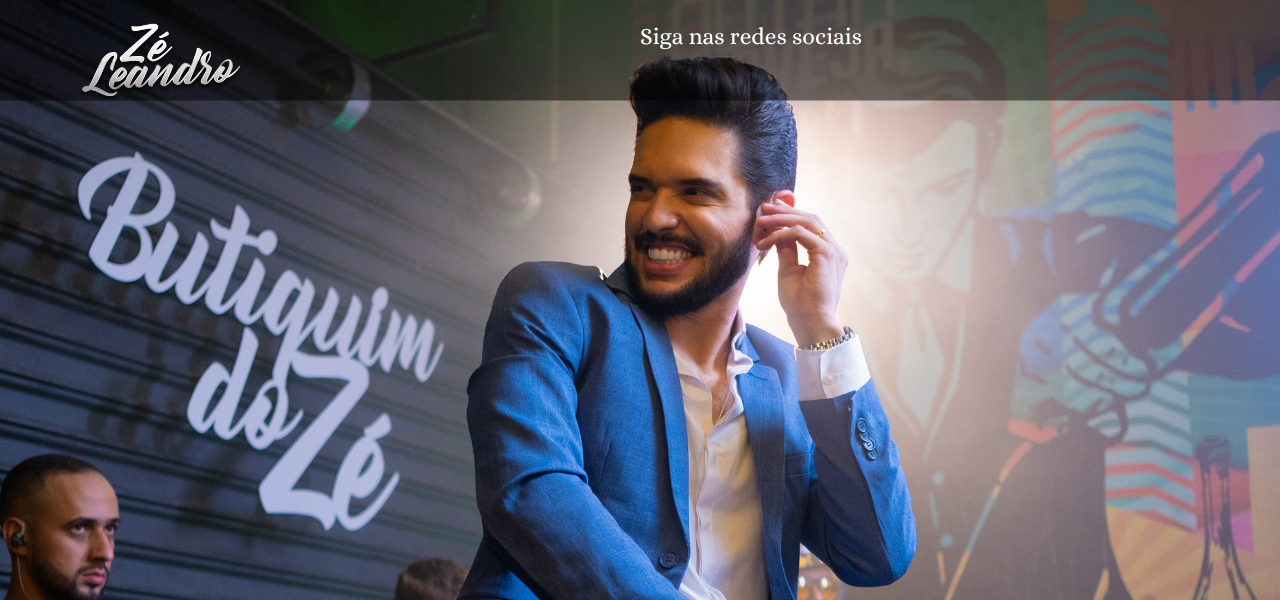
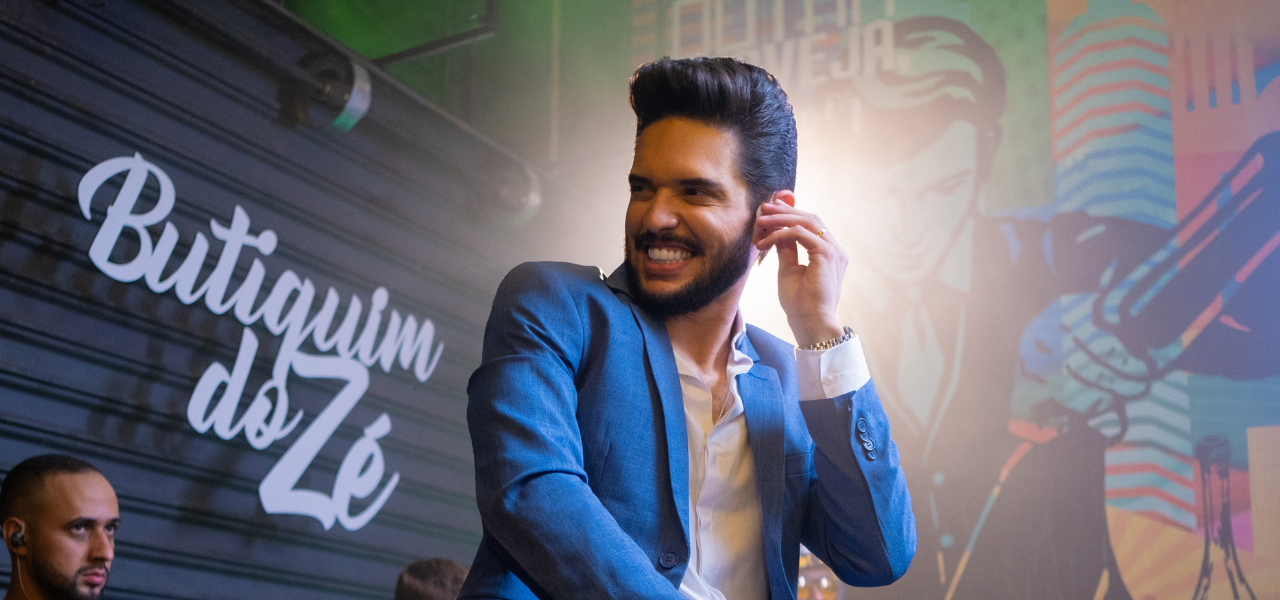
teste

Changed region(s): [[0.0, 0.0, 1.0, 0.18]]

diff --git a/index.html b/index.html
@@ -5,6 +5,7 @@
     <meta name="viewport" content="width=, initial-scale=1.0">
     <title>Zé Leandro</title>
     <link rel=stylesheet href="styles/styles.css">
+    <link rel="icon" href="./styles/img/logo png.png" type="image/x-icon">
     <link href="https://cdn.jsdelivr.net/npm/bootstrap@5.3.2/dist/css/bootstrap.min.css" rel="stylesheet" integrity="sha384-T3c6CoIi6uLrA9TneNEoa7RxnatzjcDSCmG1MXxSR1GAsXEV/Dwwykc2MPK8M2HN" crossorigin="anonymous">
     
 </head>
@@ -38,6 +39,71 @@
       </div>
     </div>
   </nav>
+
+
+
+
+
+
+
+
+
+
+  <footer class="py-3">
+    <img class="footer-img rounded mx-auto d-block" src="styles/img/logo footer png.png" width="auto" height="125">
+    <ul class="nav justify-content-center border-bottom pb-3 mb-3">
+      <li class="nav-item">
+        <a href="https://twitter.com/wesleysafadao" target="_blank" class="nav-link px-2 text-body-secondary">
+          <svg xmlns="http://www.w3.org/2000/svg" width="25" height="25" fill="currentColor" class="bi bi-twitter" viewBox="0 0 16 16">
+          <path d="M5.026 15c6.038 0 9.341-5.003 9.341-9.334 0-.14 0-.282-.006-.422A6.685 6.685 0 0 0 16 3.542a6.658 6.658 0 0 1-1.889.518 3.301 3.301 0 0 0 1.447-1.817 6.533 6.533 0 0 1-2.087.793A3.286 3.286 0 0 0 7.875 6.03a9.325 9.325 0 0 1-6.767-3.429 3.289 3.289 0 0 0 1.018 4.382A3.323 3.323 0 0 1 .64 6.575v.045a3.288 3.288 0 0 0 2.632 3.218 3.203 3.203 0 0 1-.865.115 3.23 3.23 0 0 1-.614-.057 3.283 3.283 0 0 0 3.067 2.277A6.588 6.588 0 0 1 .78 13.58a6.32 6.32 0 0 1-.78-.045A9.344 9.344 0 0 0 5.026 15"/>
+          </svg>
+        </a>
+      </li>
+      <li class="nav-item">
+        <a href="https://www.instagram.com/zeleandro_oficial/" target="_blank" class="nav-link px-2 text-body-secondary">
+          <svg xmlns="http://www.w3.org/2000/svg" width="25" height="25" fill="currentColor" class="bi bi-instagram" viewBox="0 0 16 16">
+            <path d="M8 0C5.829 0 5.556.01 4.703.048 3.85.088 3.269.222 2.76.42a3.917 3.917 0 0 0-1.417.923A3.927 3.927 0 0 0 .42 2.76C.222 3.268.087 3.85.048 4.7.01 5.555 0 5.827 0 8.001c0 2.172.01 2.444.048 3.297.04.852.174 1.433.372 1.942.205.526.478.972.923 1.417.444.445.89.719 1.416.923.51.198 1.09.333 1.942.372C5.555 15.99 5.827 16 8 16s2.444-.01 3.298-.048c.851-.04 1.434-.174 1.943-.372a3.916 3.916 0 0 0 1.416-.923c.445-.445.718-.891.923-1.417.197-.509.332-1.09.372-1.942C15.99 10.445 16 10.173 16 8s-.01-2.445-.048-3.299c-.04-.851-.175-1.433-.372-1.941a3.926 3.926 0 0 0-.923-1.417A3.911 3.911 0 0 0 13.24.42c-.51-.198-1.092-.333-1.943-.372C10.443.01 10.172 0 7.998 0h.003zm-.717 1.442h.718c2.136 0 2.389.007 3.232.046.78.035 1.204.166 1.486.275.373.145.64.319.92.599.28.28.453.546.598.92.11.281.24.705.275 1.485.039.843.047 1.096.047 3.231s-.008 2.389-.047 3.232c-.035.78-.166 1.203-.275 1.485a2.47 2.47 0 0 1-.599.919c-.28.28-.546.453-.92.598-.28.11-.704.24-1.485.276-.843.038-1.096.047-3.232.047s-2.39-.009-3.233-.047c-.78-.036-1.203-.166-1.485-.276a2.478 2.478 0 0 1-.92-.598 2.48 2.48 0 0 1-.6-.92c-.109-.281-.24-.705-.275-1.485-.038-.843-.046-1.096-.046-3.233 0-2.136.008-2.388.046-3.231.036-.78.166-1.204.276-1.486.145-.373.319-.64.599-.92.28-.28.546-.453.92-.598.282-.11.705-.24 1.485-.276.738-.034 1.024-.044 2.515-.045v.002zm4.988 1.328a.96.96 0 1 0 0 1.92.96.96 0 0 0 0-1.92zm-4.27 1.122a4.109 4.109 0 1 0 0 8.217 4.109 4.109 0 0 0 0-8.217zm0 1.441a2.667 2.667 0 1 1 0 5.334 2.667 2.667 0 0 1 0-5.334"/>
+          </svg>
+        </a>
+      </li>
+      <li class="nav-item">
+        <a href="https://www.tiktok.com/@zeleandro_oficial" target="_blank" class="nav-link px-2 text-body-secondary">
+          <svg xmlns="http://www.w3.org/2000/svg" width="25" height="25" fill="currentColor" class="bi bi-tiktok" viewBox="0 0 16 16">
+          <path d="M9 0h1.98c.144.715.54 1.617 1.235 2.512C12.895 3.389 13.797 4 15 4v2c-1.753 0-3.07-.814-4-1.829V11a5 5 0 1 1-5-5v2a3 3 0 1 0 3 3z"/>
+          </svg>
+        </a>
+      </li>
+      <li class="nav-item">
+        <a href="https://www.youtube.com/@ZeLeandro_oficial" target="_blank" class="nav-link px-2 text-body-secondary">
+          <svg xmlns="http://www.w3.org/2000/svg" width="25" height="25" fill="currentColor" class="bi bi-youtube" viewBox="0 0 16 16">
+          <path d="M8.051 1.999h.089c.822.003 4.987.033 6.11.335a2.01 2.01 0 0 1 1.415 1.42c.101.38.172.883.22 1.402l.01.104.022.26.008.104c.065.914.073 1.77.074 1.957v.075c-.001.194-.01 1.108-.082 2.06l-.008.105-.009.104c-.05.572-.124 1.14-.235 1.558a2.007 2.007 0 0 1-1.415 1.42c-1.16.312-5.569.334-6.18.335h-.142c-.309 0-1.587-.006-2.927-.052l-.17-.006-.087-.004-.171-.007-.171-.007c-1.11-.049-2.167-.128-2.654-.26a2.007 2.007 0 0 1-1.415-1.419c-.111-.417-.185-.986-.235-1.558L.09 9.82l-.008-.104A31.4 31.4 0 0 1 0 7.68v-.123c.002-.215.01-.958.064-1.778l.007-.103.003-.052.008-.104.022-.26.01-.104c.048-.519.119-1.023.22-1.402a2.007 2.007 0 0 1 1.415-1.42c.487-.13 1.544-.21 2.654-.26l.17-.007.172-.006.086-.003.171-.007A99.788 99.788 0 0 1 7.858 2h.193zM6.4 5.209v4.818l4.157-2.408z"/>
+          </svg>
+        </a>
+      </li>
+      <li class="nav-item">
+        <a href="https://open.spotify.com/intl-pt/artist/1hPyw2RZHJ5jhcG2Y0ldRU?autoplay=true" class="nav-link px-2 text-body-secondary">
+          <svg xmlns="http://www.w3.org/2000/svg" width="25" height="25" fill="currentColor" class="bi bi-spotify" viewBox="0 0 16 16">
+          <path d="M8 0a8 8 0 1 0 0 16A8 8 0 0 0 8 0m3.669 11.538a.498.498 0 0 1-.686.165c-1.879-1.147-4.243-1.407-7.028-.77a.499.499 0 0 1-.222-.973c3.048-.696 5.662-.397 7.77.892a.5.5 0 0 1 .166.686zm.979-2.178a.624.624 0 0 1-.858.205c-2.15-1.321-5.428-1.704-7.972-.932a.625.625 0 0 1-.362-1.194c2.905-.881 6.517-.454 8.986 1.063a.624.624 0 0 1 .206.858m.084-2.268C10.154 5.56 5.9 5.419 3.438 6.166a.748.748 0 1 1-.434-1.432c2.825-.857 7.523-.692 10.492 1.07a.747.747 0 1 1-.764 1.288z"/>
+          </svg>
+        </a>
+      </li>
+      <li class="nav-item">
+        <a href="https://www.deezer.com/br/album/471122425?deferredFl=1" class="nav-link px-2 text-body-secondary">
+          <img src="styles/img/deezer-svgrepo-com.svg"  width="25" height="25" fill="currentColor" alt="Logo Deezer">
+        </a>
+      </li>
+      <li class="nav-item">
+        <a href="https://music.apple.com/br/album/conhaque-com-cacau/1700292779?i=1700292780" target="_blank" class="nav-link px-2 text-body-secondary">
+          <svg xmlns="http://www.w3.org/2000/svg" width="25" height="25" fill="currentColor" class="bi bi-apple" viewBox="0 0 16 16">
+          <path d="M11.182.008C11.148-.03 9.923.023 8.857 1.18c-1.066 1.156-.902 2.482-.878 2.516.024.034 1.52.087 2.475-1.258.955-1.345.762-2.391.728-2.43Zm3.314 11.733c-.048-.096-2.325-1.234-2.113-3.422.212-2.189 1.675-2.789 1.698-2.854.023-.065-.597-.79-1.254-1.157a3.692 3.692 0 0 0-1.563-.434c-.108-.003-.483-.095-1.254.116-.508.139-1.653.589-1.968.607-.316.018-1.256-.522-2.267-.665-.647-.125-1.333.131-1.824.328-.49.196-1.422.754-2.074 2.237-.652 1.482-.311 3.83-.067 4.56.244.729.625 1.924 1.273 2.796.576.984 1.34 1.667 1.659 1.899.319.232 1.219.386 1.843.067.502-.308 1.408-.485 1.766-.472.357.013 1.061.154 1.782.539.571.197 1.111.115 1.652-.105.541-.221 1.324-1.059 2.238-2.758.347-.79.505-1.217.473-1.282Z"/>
+          <path d="M11.182.008C11.148-.03 9.923.023 8.857 1.18c-1.066 1.156-.902 2.482-.878 2.516.024.034 1.52.087 2.475-1.258.955-1.345.762-2.391.728-2.43Zm3.314 11.733c-.048-.096-2.325-1.234-2.113-3.422.212-2.189 1.675-2.789 1.698-2.854.023-.065-.597-.79-1.254-1.157a3.692 3.692 0 0 0-1.563-.434c-.108-.003-.483-.095-1.254.116-.508.139-1.653.589-1.968.607-.316.018-1.256-.522-2.267-.665-.647-.125-1.333.131-1.824.328-.49.196-1.422.754-2.074 2.237-.652 1.482-.311 3.83-.067 4.56.244.729.625 1.924 1.273 2.796.576.984 1.34 1.667 1.659 1.899.319.232 1.219.386 1.843.067.502-.308 1.408-.485 1.766-.472.357.013 1.061.154 1.782.539.571.197 1.111.115 1.652-.105.541-.221 1.324-1.059 2.238-2.758.347-.79.505-1.217.473-1.282Z"/>
+          </svg>
+        </a>
+      </li>
+    </ul>
+    <p class="text-center text-body-secondary">&copy; 2024 Zé Leandro</p>
+  </footer>
+</div>
   <script src="https://cdn.jsdelivr.net/npm/bootstrap@5.3.2/dist/js/bootstrap.bundle.min.js" integrity="sha384-C6RzsynM9kWDrMNeT87bh95OGNyZPhcTNXj1NW7RuBCsyN/o0jlpcV8Qyq46cDfL" crossorigin="anonymous"></script>
 </body>
 </html>

diff --git a/styles/contato.css b/styles/contato.css
@@ -2,7 +2,7 @@
 
 
 body {
-    background-image: url('/styles/img/contatowallpaper.png');
+    background-image: url('/styles/img/wallpaper.png');
     background-size: cover; /* ajusta o tamanho da imagem */
     background-position: center; /* posiciona a imagem no centro */
     margin: 0; /* remove a margem padrão do corpo */

diff --git a/styles/styles.css b/styles/styles.css
@@ -2,7 +2,7 @@
 
 
 body {
-    background-image: url('/styles/img/wallpaper.png');
+    background-image: url('/styles/img/contatowallpaper.png');
     background-size: cover; /* ajusta o tamanho da imagem */
     background-position: center; /* posiciona a imagem no centro */
     margin: 0; /* remove a margem padrão do corpo */
